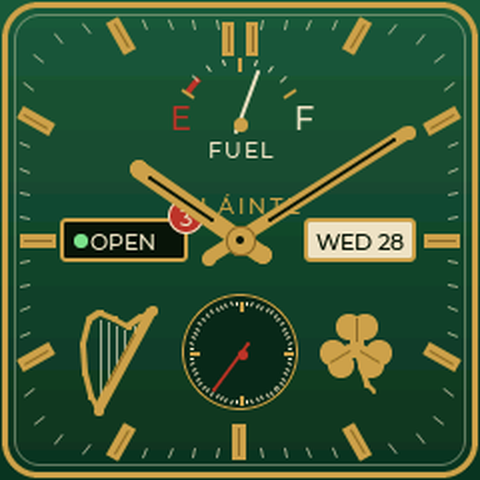
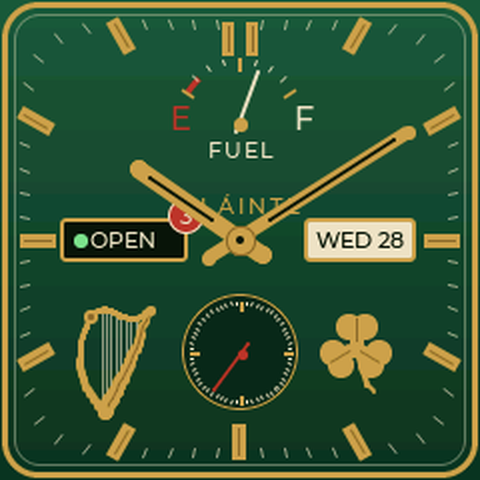
Corrige le crash au boot (interrupteur BT non construit) ; harpe en Bézier
ui_on_ble_state accédait à l'interrupteur Bluetooth des réglages, désormais
construits à la demande. Pointeurs remis à NULL à la libération, un seul
groupe d'écrans paresseux à la fois.

Claude-Session: https://claude.ai/code/session_01Nqsr6dMwaT8y4hmR3wyTbr

diff --git a/main/face_pub.c b/main/face_pub.c
@@ -172,24 +172,69 @@ static void track_pt(float deg, float h, float *x, float *y, float *ux, float *u
     *ux = sx; *uy = sy;
 }
 
-/* Harpe celtique stylisée (dessin original) : colonne courbe à gauche,
- * console ondulée en haut, caisse de résonance en diagonale, cordes. */
+/* ------------------------------------------------------------------ */
+/* Harpe celtique (dessin original, courbes de Bézier) : colonne galbée */
+/* à gauche, console en S, caisse de résonance bombée qui s'affine vers  */
+/* le haut, volute au sommet de la colonne, cordes qui suivent la console */
+/* ------------------------------------------------------------------ */
+typedef struct { float x, y; } fpt_t;
+
+static fpt_t bez(fpt_t a, fpt_t b, fpt_t c, fpt_t d, float t)
+{
+    float u = 1 - t;
+    float k0 = u * u * u, k1 = 3 * u * u * t, k2 = 3 * u * t * t, k3 = t * t * t;
+    return (fpt_t){ k0 * a.x + k1 * b.x + k2 * c.x + k3 * d.x, k0 * a.y + k1 * b.y + k2 * c.y + k3 * d.y };
+}
+
+/* trait courbe, largeur interpolée w0 → w1, segments courts à bouts ronds */
+static void draw_bez(lv_layer_t *layer, float ox, float oy, fpt_t a, fpt_t b, fpt_t c, fpt_t d,
+                     float w0, float w1, lv_color_t col, int n)
+{
+    fpt_t p = bez(a, b, c, d, 0);
+    for (int i = 1; i <= n; i++) {
+        float t = (float)i / n;
+        fpt_t q = bez(a, b, c, d, t);
+        int w = (int)(w0 + (w1 - w0) * (t - 0.5f / n) + 0.5f);
+        draw_line(layer, ox + p.x, oy + p.y, ox + q.x, oy + q.y, w < 1 ? 1 : w, col, LV_OPA_COVER, true);
+        p = q;
+    }
+}
+
+static void draw_disc(lv_layer_t *layer, float cx, float cy, int r, lv_color_t c);
+
 static void draw_harp(lv_layer_t *layer, int ox, int oy)
 {
-    int x0 = ox + HP_X - 20, y0 = oy + HP_Y - 26;   /* boîte 40 × 52 */
-    static const float neck[][2]   = { {4, 6}, {10, 2}, {17, 5}, {24, 9}, {31, 4}, {36, 1} };
-    static const float pillar[][2] = { {4, 6}, {1, 18}, {2, 32}, {5, 44}, {9, 51} };
-    /* cordes : du dessous de la console jusqu'à la caisse */
-    for (int i = 0; i < 6; i++) {
-        float x = 10 + i * 4.3f;
-        float ytop = (x < 24) ? 4 + (x - 10) * 0.45f + 2 : 9 - (x - 24) * 0.6f + 2;
-        float ybot = 51 - (x - 9) * (50.0f / 27.0f);     /* caisse : (9,51) → (36,1) */
-        draw_line(layer, x0 + x, y0 + ytop, x0 + x, y0 + ybot - 1, 1, C_CREAM, LV_OPA_70, false);
+    float x0 = ox + HP_X - 21, y0 = oy + HP_Y - 29;          /* boîte 42 × 58 */
+    /* caisse : du pied (bas) jusque sous l'extrémité de la console (haut droite) */
+    const fpt_t sb0 = { 14, 55 }, sb1 = { 22, 40 }, sb2 = { 31, 22 }, sb3 = { 35, 6 };
+    /* colonne : du pied, galbe vers la gauche, jusqu'à la volute */
+    const fpt_t pl0 = { 13, 55 }, pl1 = { -2, 41 }, pl2 = { -1, 17 }, pl3 = { 7, 8 };
+    /* console : S élégant de la volute à la tête de la caisse */
+    const fpt_t nk0 = { 7, 8 }, nk1 = { 15, -5 }, nk2 = { 24, 18 }, nk3 = { 36, 4 };
+
+    /* cordes d'abord (sous la structure) : de la console à la caisse */
+    for (int i = 0; i < 8; i++) {
+        float t = 0.22f + i * 0.085f;
+        fpt_t top = bez(nk0, nk1, nk2, nk3, t);
+        /* point de la caisse à la même abscisse (recherche sur la courbe) */
+        float best = 1e9f, yb = top.y;
+        for (int k = 0; k <= 40; k++) {
+            fpt_t q = bez(sb0, sb1, sb2, sb3, k / 40.0f);
+            float dx = fabsf(q.x - top.x);
+            if (dx < best) { best = dx; yb = q.y; }
+        }
+        if (yb - top.y > 6) {
+            draw_line(layer, x0 + top.x, y0 + top.y + 2, x0 + top.x, y0 + yb - 2, 1, C_CREAM, LV_OPA_60, false);
+        }
     }
-    draw_line(layer, x0 + 9, y0 + 51, x0 + 36, y0 + 1, 5, C_BRASS, LV_OPA_COVER, true);   /* caisse */
-    draw_poly(layer, x0, y0, neck, 6, 3, C_BRASS);
-    draw_poly(layer, x0, y0, pillar, 5, 3, C_BRASS);
-    draw_line(layer, x0 + 13, y0 + 39, x0 + 27, y0 + 13, 1, C_BRASS_D, LV_OPA_COVER, false); /* filet caisse */
+    draw_bez(layer, x0, y0, sb0, sb1, sb2, sb3, 8.0f, 3.5f, C_BRASS, 14);   /* caisse */
+    draw_bez(layer, x0, y0, sb0, sb1, sb2, sb3, 1.0f, 1.0f, C_BRASS_D, 14); /* filet central */
+    draw_bez(layer, x0, y0, pl0, pl1, pl2, pl3, 4.0f, 3.0f, C_BRASS, 16);   /* colonne */
+    draw_bez(layer, x0, y0, nk0, nk1, nk2, nk3, 3.5f, 3.0f, C_BRASS, 16);   /* console */
+    draw_disc(layer, x0 + 6, y0 + 7, 3, C_BRASS);                           /* volute */
+    draw_disc(layer, x0 + 6, y0 + 7, 1, C_BRASS_D);
+    draw_disc(layer, x0 + 36, y0 + 4, 2, C_BRASS);                          /* tête de caisse */
+    draw_disc(layer, x0 + 13, y0 + 55, 3, C_BRASS);                         /* pied */
 }
 
 static void draw_disc(lv_layer_t *layer, float cx, float cy, int r, lv_color_t c)

diff --git a/main/ui.c b/main/ui.c
@@ -198,11 +198,15 @@ static bool is_menu_group(scr_id_t id)
     return id == SCR_MENU || id == SCR_SET_DISP || id == SCR_SET_ALERT || id == SCR_SET_BT;
 }
 
+static void release_menu(void);
+static void release_media(void);
+
 static void ensure_screen(scr_id_t id)
 {
     if (s_scr[id]) return;
-    if (is_menu_group(id)) { build_menu(); menu_sync_from_settings(); }
-    else if (id == SCR_MEDIA) build_media();
+    /* un seul groupe paresseux à la fois : on libère l'autre avant de construire */
+    if (is_menu_group(id)) { release_media(); build_menu(); menu_sync_from_settings(); }
+    else if (id == SCR_MEDIA) { release_menu(); build_media(); }
 }
 
 static void show(scr_id_t id, lv_screen_load_anim_t anim)
@@ -1330,21 +1334,35 @@ void ui_init(void)
     show(SCR_WATCH, LV_SCR_LOAD_ANIM_NONE);
 }
 
+static void release_menu(void)
+{
+    if (!s_scr[SCR_MENU] || is_menu_group(s_cur)) return;
+    static const scr_id_t grp[] = { SCR_MENU, SCR_SET_DISP, SCR_SET_ALERT, SCR_SET_BT };
+    for (size_t i = 0; i < sizeof(grp) / sizeof(grp[0]); i++) {
+        if (s_scr[grp[i]]) { lv_obj_delete(s_scr[grp[i]]); s_scr[grp[i]] = NULL; }
+    }
+    /* plus aucun pointeur vers des objets détruits */
+    m_slider = m_sw_vib = m_sw_bt = m_sw_tap = m_sw_nwake = m_bm_tmo = m_bm_face = NULL;
+    m_bt_info = m_confirm = NULL;
+    memset(m_sum, 0, sizeof(m_sum));
+}
+
+static void release_media(void)
+{
+    if (!s_scr[SCR_MEDIA] || s_cur == SCR_MEDIA) return;
+    if (mu_timer) { lv_timer_delete(mu_timer); mu_timer = NULL; }
+    lv_obj_delete(s_scr[SCR_MEDIA]);
+    s_scr[SCR_MEDIA] = NULL;
+    mu_box = mu_empty = mu_player = mu_title = mu_artist = mu_album = NULL;
+    mu_bar = mu_pos = mu_dur = mu_play_lbl = mu_vol = NULL;
+    memset(mu_btn, 0, sizeof(mu_btn));
+    mu_seq = UINT32_MAX;
+}
+
 void ui_release_idle(void)
 {
-    if (is_menu_group(s_cur) || s_cur == SCR_MEDIA) return;
-    if (s_scr[SCR_MENU]) {
-        static const scr_id_t grp[] = { SCR_MENU, SCR_SET_DISP, SCR_SET_ALERT, SCR_SET_BT };
-        for (size_t i = 0; i < sizeof(grp) / sizeof(grp[0]); i++) {
-            if (s_scr[grp[i]]) { lv_obj_delete(s_scr[grp[i]]); s_scr[grp[i]] = NULL; }
-        }
-    }
-    if (s_scr[SCR_MEDIA]) {
-        if (mu_timer) { lv_timer_delete(mu_timer); mu_timer = NULL; }
-        lv_obj_delete(s_scr[SCR_MEDIA]);
-        s_scr[SCR_MEDIA] = NULL;
-        mu_seq = UINT32_MAX;
-    }
+    release_menu();
+    release_media();
 }
 
 void ui_go_home(void)
@@ -1449,9 +1467,8 @@ void ui_on_ble_state(int st)
         if (s_cur == SCR_CALL) show(SCR_WATCH, LV_SCR_LOAD_ANIM_NONE);
     }
     watch_refresh_status();
-    /* l'interrupteur suit l'état réel de la pile */
-    if (ble_running()) lv_obj_add_state(m_sw_bt, LV_STATE_CHECKED);
-    else lv_obj_remove_state(m_sw_bt, LV_STATE_CHECKED);
+    /* l'interrupteur suit l'état réel de la pile (page construite à la demande) */
+    if (m_sw_bt) lv_obj_set_state(m_sw_bt, LV_STATE_CHECKED, ble_running());
 }
 
 void ui_on_power(void) { watch_refresh_status(); }
